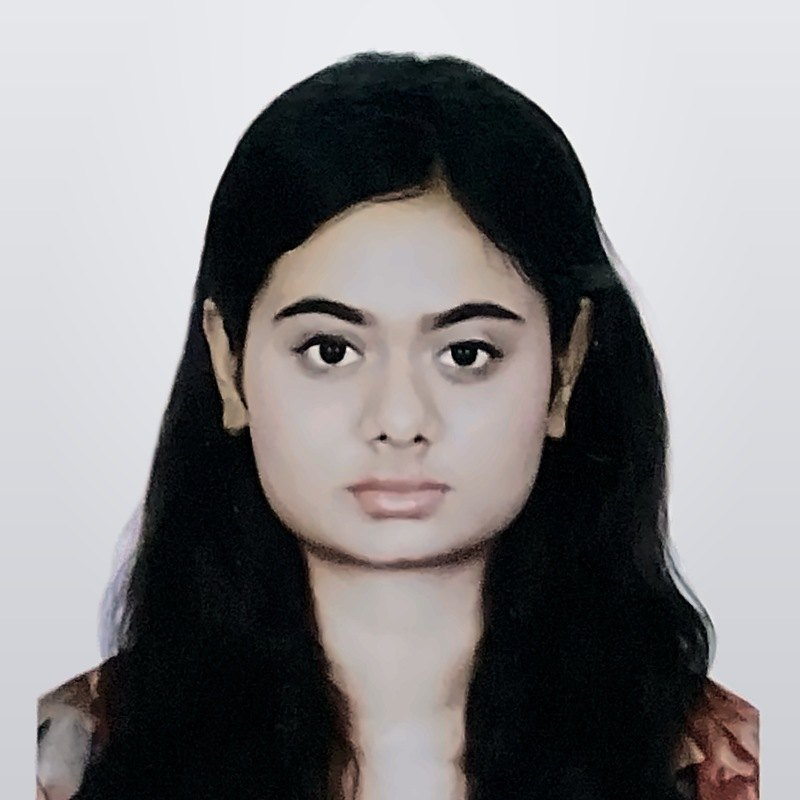
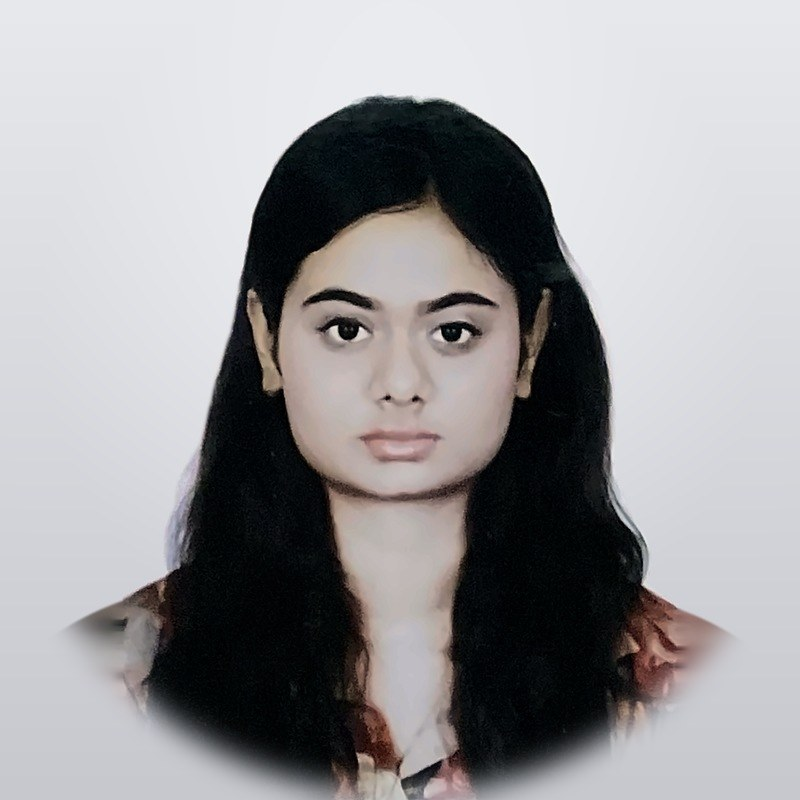
Show more of profile photo

diff --git a/index.html b/index.html
@@ -13,7 +13,7 @@
   <meta property="og:description" content="Software engineering student building software, data and machine learning projects in Python, C++ and JavaScript. Open to software, IT, data and AI roles." />
   <meta property="og:type" content="website" />
   <meta property="og:locale" content="en_GB" />
-  <meta property="og:image" content="https://seherin-zaman.github.io/portfolio/seherin_profile.jpg?v=2" />
+  <meta property="og:image" content="https://seherin-zaman.github.io/portfolio/seherin_profile.jpg?v=3" />
   <meta property="og:image:alt" content="Portrait of Seherin Zaman" />
 
   <meta name="twitter:card" content="summary" />
@@ -154,7 +154,7 @@
             </svg>
 
             <div class="portrait-frame">
-              <img src="seherin_profile.jpg?v=2"
+              <img src="seherin_profile.jpg?v=3"
                    alt="Portrait of Seherin Zaman, software engineering student"
                    width="400" height="400"
                    loading="eager" decoding="async" fetchpriority="high">
